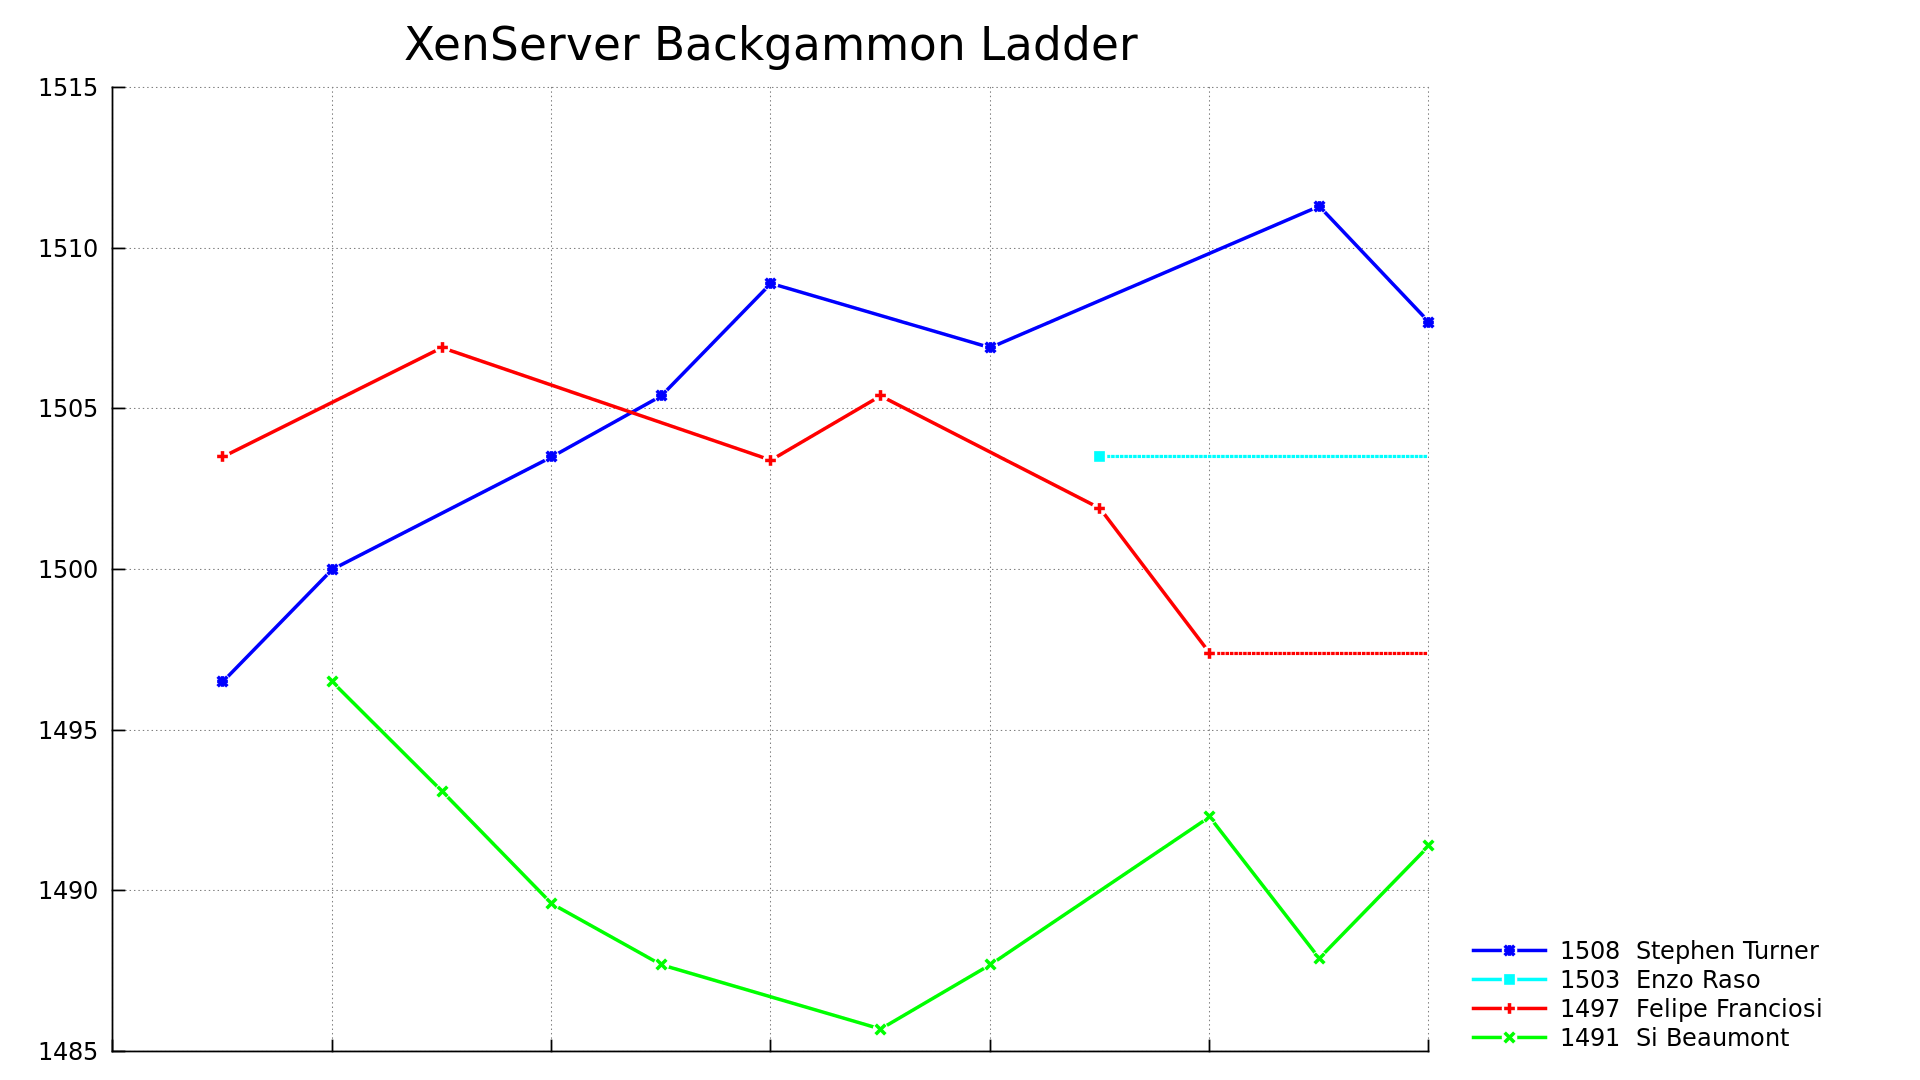
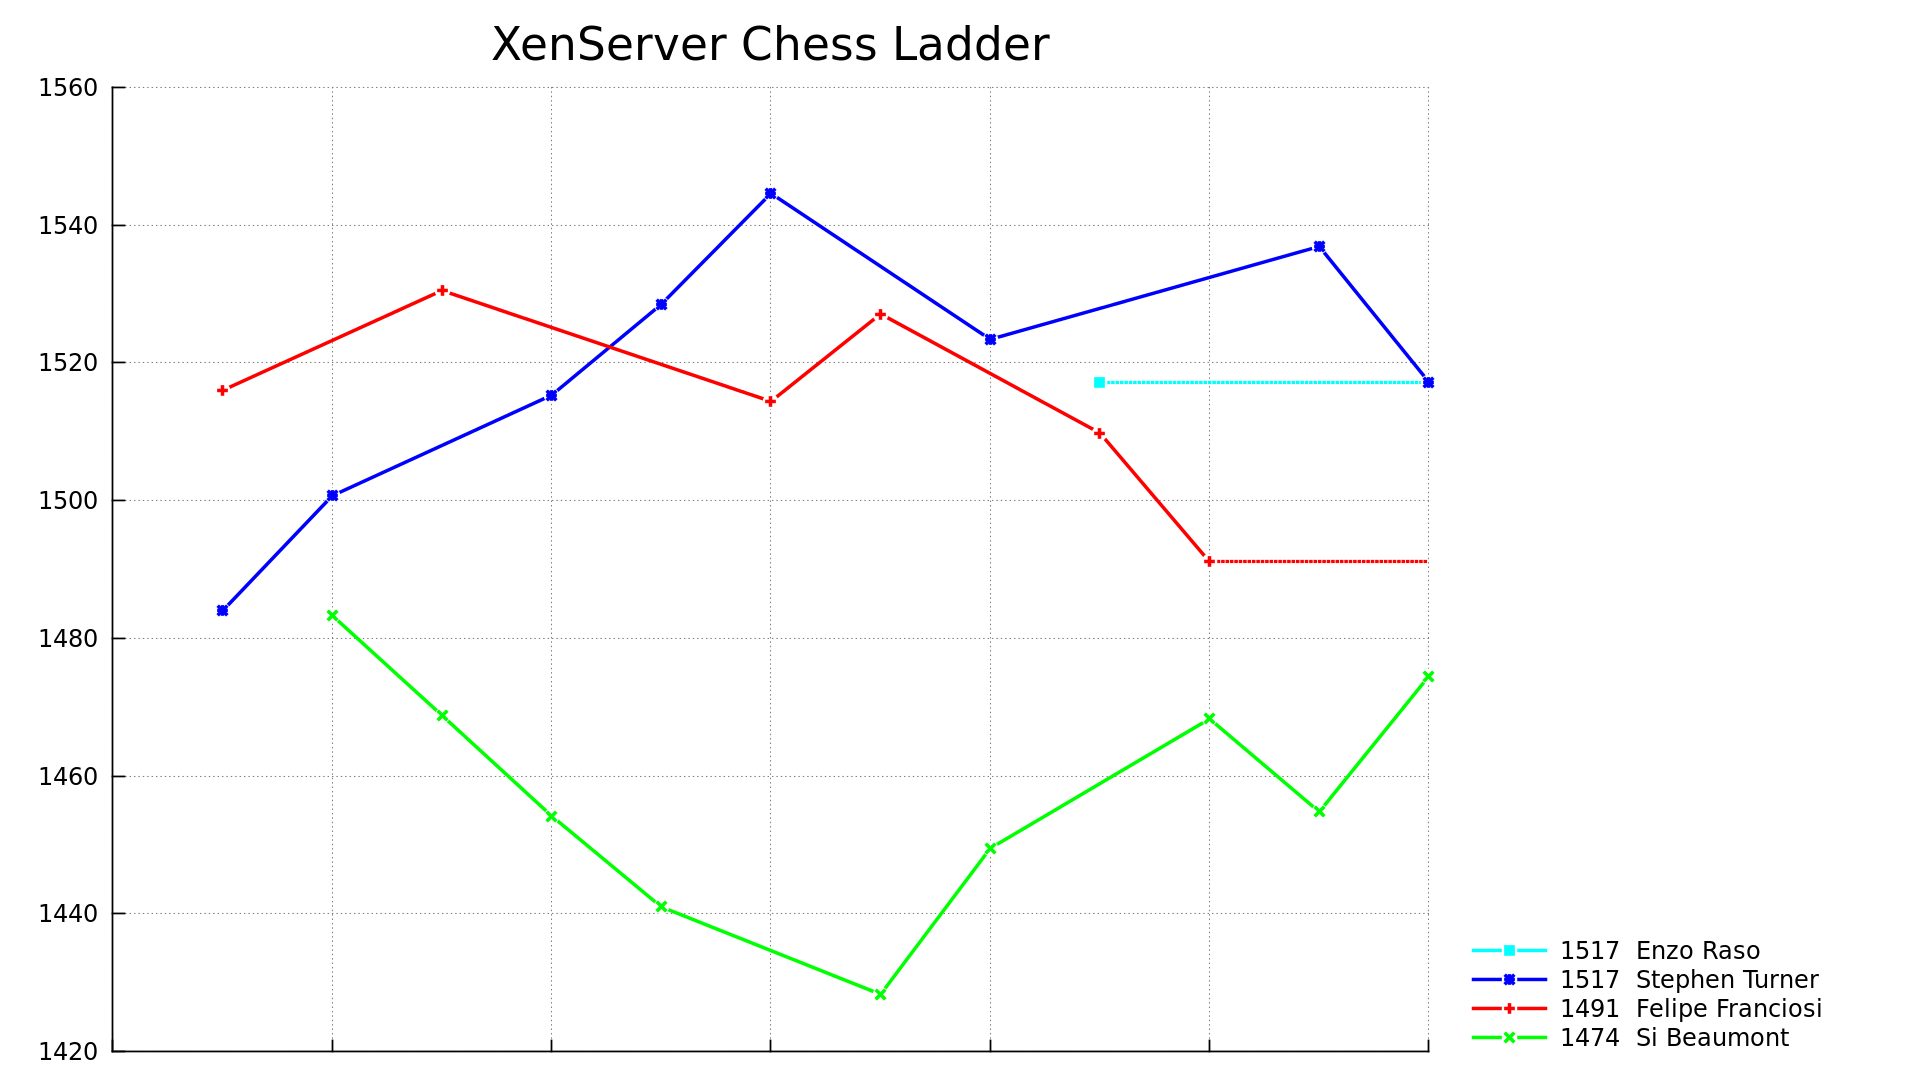
Travis build 4 pushed to gh-pages

diff --git a/ladder.js b/ladder.js
@@ -68,24 +68,23 @@ function build_ladder()
 	function build_rows(ps, active)
 	{
 		var i = 1;
-		var dps = 1;
 		var rows = ps.map(function(p){
 			var last = p.ratings[0];
 			var diff = 0;
 			if (p.ratings.length > 1)
-				diff = (last - p.ratings[1]).toFixed(dps);
+				diff = Math.round(last - p.ratings[1]);
 			if (active)
 				return [
 					i++,
 					p.name,
-					last.toFixed(dps),
+					Math.round(last),
 					motion(diff),
 					p.points_won + " / " + p.game_count
 				]
 			else
 				return [
 					p.name,
-					last.toFixed(dps),
+					Math.round(last),
 					p.points_won + " / " + p.game_count
 				]
 		}
@@ -94,12 +93,12 @@ function build_ladder()
 	}
 
 	var rows = build_rows(active_players, true);
-	var table = make_table(rows, ["Rank", "Name", "Rating", "Last diff", "Wins / Games"]);
+	var table = make_table(rows, ["Rank", "Name", "Rating", "Diff", "Score / Games"]);
 	div.appendChild(table);
 
 	div.innerHTML += "<h2>Retired Players</h2>";
 	var rows = build_rows(inactive_players, false);
-	var table = make_table(rows, ["Name", "Rating", "Wins / Games"]);
+	var table = make_table(rows, ["Name", "Rating", "Score / Games"]);
 	div.appendChild(table);
 }
 
@@ -122,12 +121,11 @@ function refresh_games_table(div, x)
 			p.date,
 			p.name1,
 			p.name2,
-			p.length,
 			string_of_result(p.result)
 		]}
 	);
 
-	var table = make_table(rows, ["Date", "Player 1", "Player 2", "Length", "Result"]);
+	var table = make_table(rows, ["Date", "White", "Black", "Result"]);
 	if (div.hasChildNodes())
 		div.removeChild(div.firstChild);
 	div.appendChild(table);
@@ -183,11 +181,14 @@ function build_suggestions()
 
 	var rows = suggestions.map(function(p){
 		return [
-			p.name1, p.name2,
+			p.name1 +
+			display_stakes(p.stake_win, p.stake_draw, p.stake_loss),
+			p.name2 +
+			display_stakes(-p.stake_loss, -p.stake_draw, -p.stake_win),
 		]}
 	);
 
-	var table = make_table(rows, ["Player 1", "Player 2"]);
+	var table = make_table(rows, ["White", "Black"]);
 	div.appendChild(table);
 }
 
@@ -214,8 +215,10 @@ function refresh_stats_table(div, x)
 				p.name1,
 				p.count,
 				p.losses,
+				p.draws,
 				p.wins,
 				average_result(-p.wins, -p.draws, -p.losses, p.count),
+				-p.balance
 			]
 		}
 		else {
@@ -227,22 +230,25 @@ function refresh_stats_table(div, x)
 				p.name2,
 				p.count,
 				p.wins,
+				p.draws,
 				p.losses,
 				average_result(p.wins, p.draws, p.losses, p.count),
+				p.balance
 			]
 		}
 	});
 	var avg = average_result(wins, draws, losses, count);
-	rows.push(["", "", bold(count), bold(wins), bold(losses), bold(avg)]);
+	rows.push(["", "", bold(count), bold(wins), bold(draws), bold(losses), bold(avg), bold(balance)]);
 
-	var table = make_table(rows, ["Player 1", "Player 2", "Games", "Wins*", "Losses*", "Average Result*"]);
+	var table = make_table(rows, ["Player 1", "Player 2", "Games", "Wins*", "Draws*", "Losses*", "Average Result*", "Colour Balance**"]);
 	if (div.hasChildNodes()) {
 		div.removeChild(div.firstChild);
 		div.removeChild(div.firstChild);
 	}
 	div.appendChild(table);
 
-	div.innerHTML += "<p>* For Player 1.</p>";
+	div.innerHTML += "<p>* For Player 1.<br />\
+		** The number of games Player 1 had white minus the number of games Player 2 had white.</p>";
 }
 
 function build_stats()

diff --git a/index.html b/index.html
@@ -4,7 +4,6 @@
 	<script type="text/javascript" src="ladder.json"></script>
 	<script type="text/javascript" src="ladder.js"></script>
 	<link rel="stylesheet" href="style.css" />
-	<title>XenServer Backgammon Ladder</title>
 </head>
 <body onload="build()">
 <div class="wrapper">
@@ -14,30 +13,24 @@
 	<p>This page is automatically updated as a result of editing files in the following repository:</p>
 
 	<ul>
-		<li><a href="https://github.com/stephen-turner/elo-ladder/edit/master/players">Add a <strong>Player</strong></a></li>
-		<li><a href="https://github.com/stephen-turner/elo-ladder/edit/master/games">Add a <strong>Game</strong></a></li>
-		<li><a href="http://github.com/stephen-turner/elo-ladder">View the <strong>Readme</strong></a></li>
+		<li><a href="https://github.com/robhoes/elo-ladder-games/edit/master/players">Add a <strong>Player</strong></a></li>
+		<li><a href="https://github.com/robhoes/elo-ladder-games/edit/master/games">Add a <strong>Game</strong></a></li>
+		<li><a href="http://github.com/robhoes/elo-ladder">View the <strong>Readme</strong></a></li>
 	</ul>
 
-	<p>To join the ladder, add yourself to the <a href="https://github.com/stephen-turner/elo-ladder/edit/master/games"><strong><em>players</em></strong></a> file with a starting rating of 1500.</p>
+	<p>To join the ladder, add yourself to the <a href="https://github.com/robhoes/elo-ladder-games/edit/master/games"><strong><em>players</em></strong></a> file with a starting rating of 1500.</p>
 
-	<p>To add the result of a game, edit the <a href="https://github.com/stephen-turner/elo-ladder/edit/master/games"><strong><em>games</em></strong></a> file in the same repository.</p>
+	<p>To add the result of a game, edit the <a href="https://github.com/robhoes/elo-ladder-games/edit/master/games"><strong><em>games</em></strong></a> file in the same repository.</p>
 
 	<p>Both of these can be done by using Github’s web interface (use the buttons above).</p>
 
-<h3>Rules</h3>
-
-<ol>
-<li>You may play a match to any length&nbsp;<i>n</i>. The first player to reach that score wins. Only winning or losing counts; the exact score doesn't matter.
-<li>The Crawford rule is in effect: if one player reaches (<i>n</i> - 1) points, the other player may not double in the next game, but may double at any time in subsequent games.</li>
-</ol>
-
+	<p><strong>Ladder matches are 15 minute games</strong></p>
 	<hr>
-	<p>This project is maintained by <a href="https://github.com/stephen-turner">Stephen Turner</a>. This page is hosted on GitHub Pages.</p>
+	<p>This project is maintained by <a href="https://github.com/robhoes">robhoes</a> and <a href="https://github.com/simonjbeaumont">simonjbeaumont</a>. This page is hosted on GitHub Pages.</p>
 </header>
 
 <section>
-	<h1>XenServer Backgammon Ladder</h1>
+	<h1>XenServer Chess Ladder</h1>
 	
 	<ul>
 		<li><a onclick="build_ladder()">Show <strong>Ladder</strong></a></li>

diff --git a/style.css b/style.css
@@ -133,7 +133,7 @@ section ul {
   width:450px;
 }
 
-ul li {
+li {
   float:left;
   border-right:1px solid #d2d2d2;
   height:40px;
